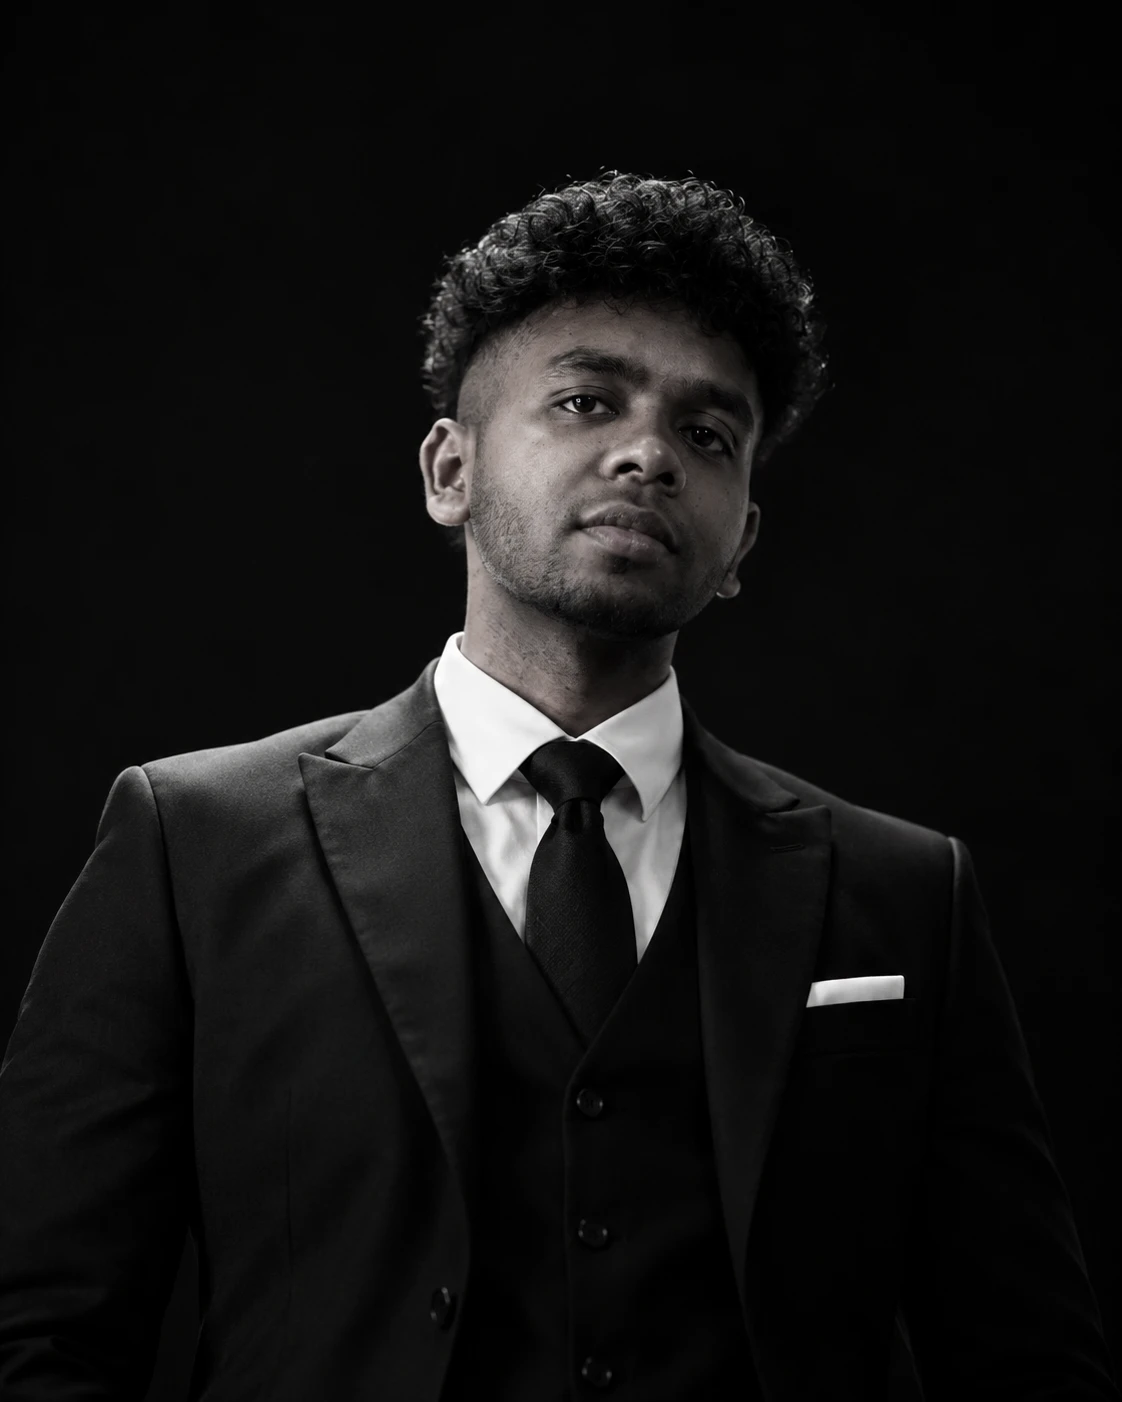
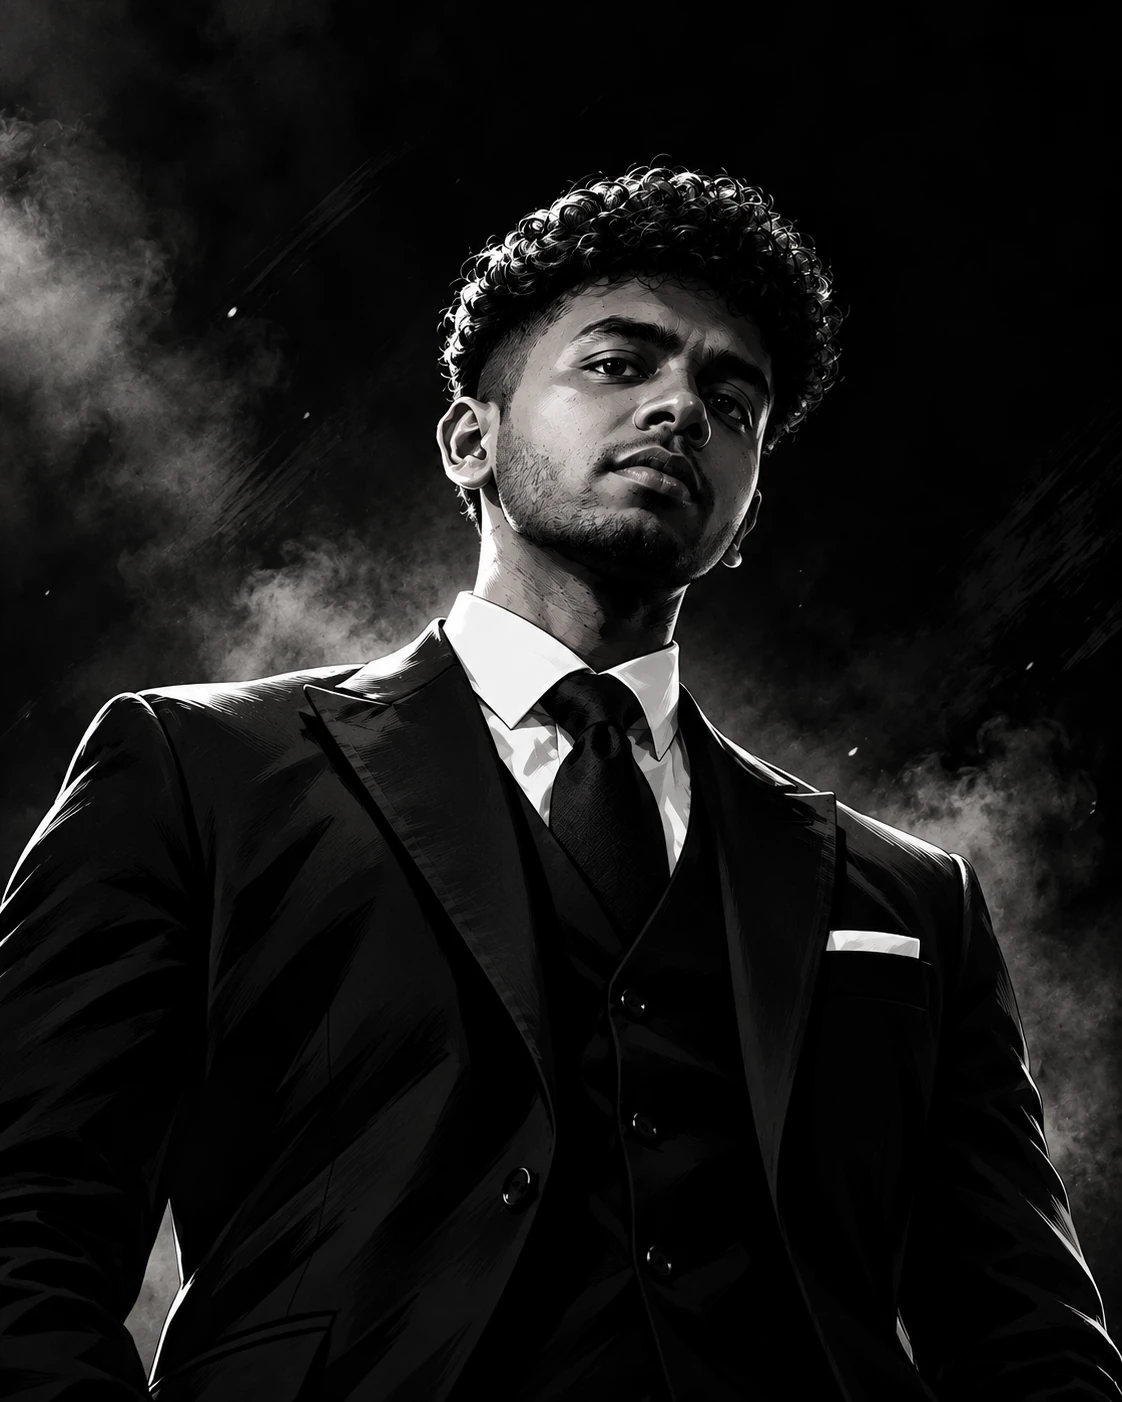
Use new portrait in portfolio hero

diff --git a/src/views/Hero.jsx b/src/views/Hero.jsx
@@ -37,7 +37,7 @@ export default function Hero() {
         <div className="relative order-1 w-full max-w-[31rem] justify-self-center lg:col-start-2 lg:row-span-2 lg:row-start-1 lg:order-2 lg:max-w-[35rem] lg:justify-self-end">
           <Image
             src={portrait}
-            alt="Evin Leyander wearing a black three-piece suit"
+            alt="Stylized black-and-white portrait of Evin Leyander in a suit"
             priority
             sizes="(max-width: 1023px) 88vw, (max-width: 1440px) 42vw, 35rem"
             className="block h-auto max-h-[78svh] w-full object-contain object-bottom lg:object-right-bottom"
